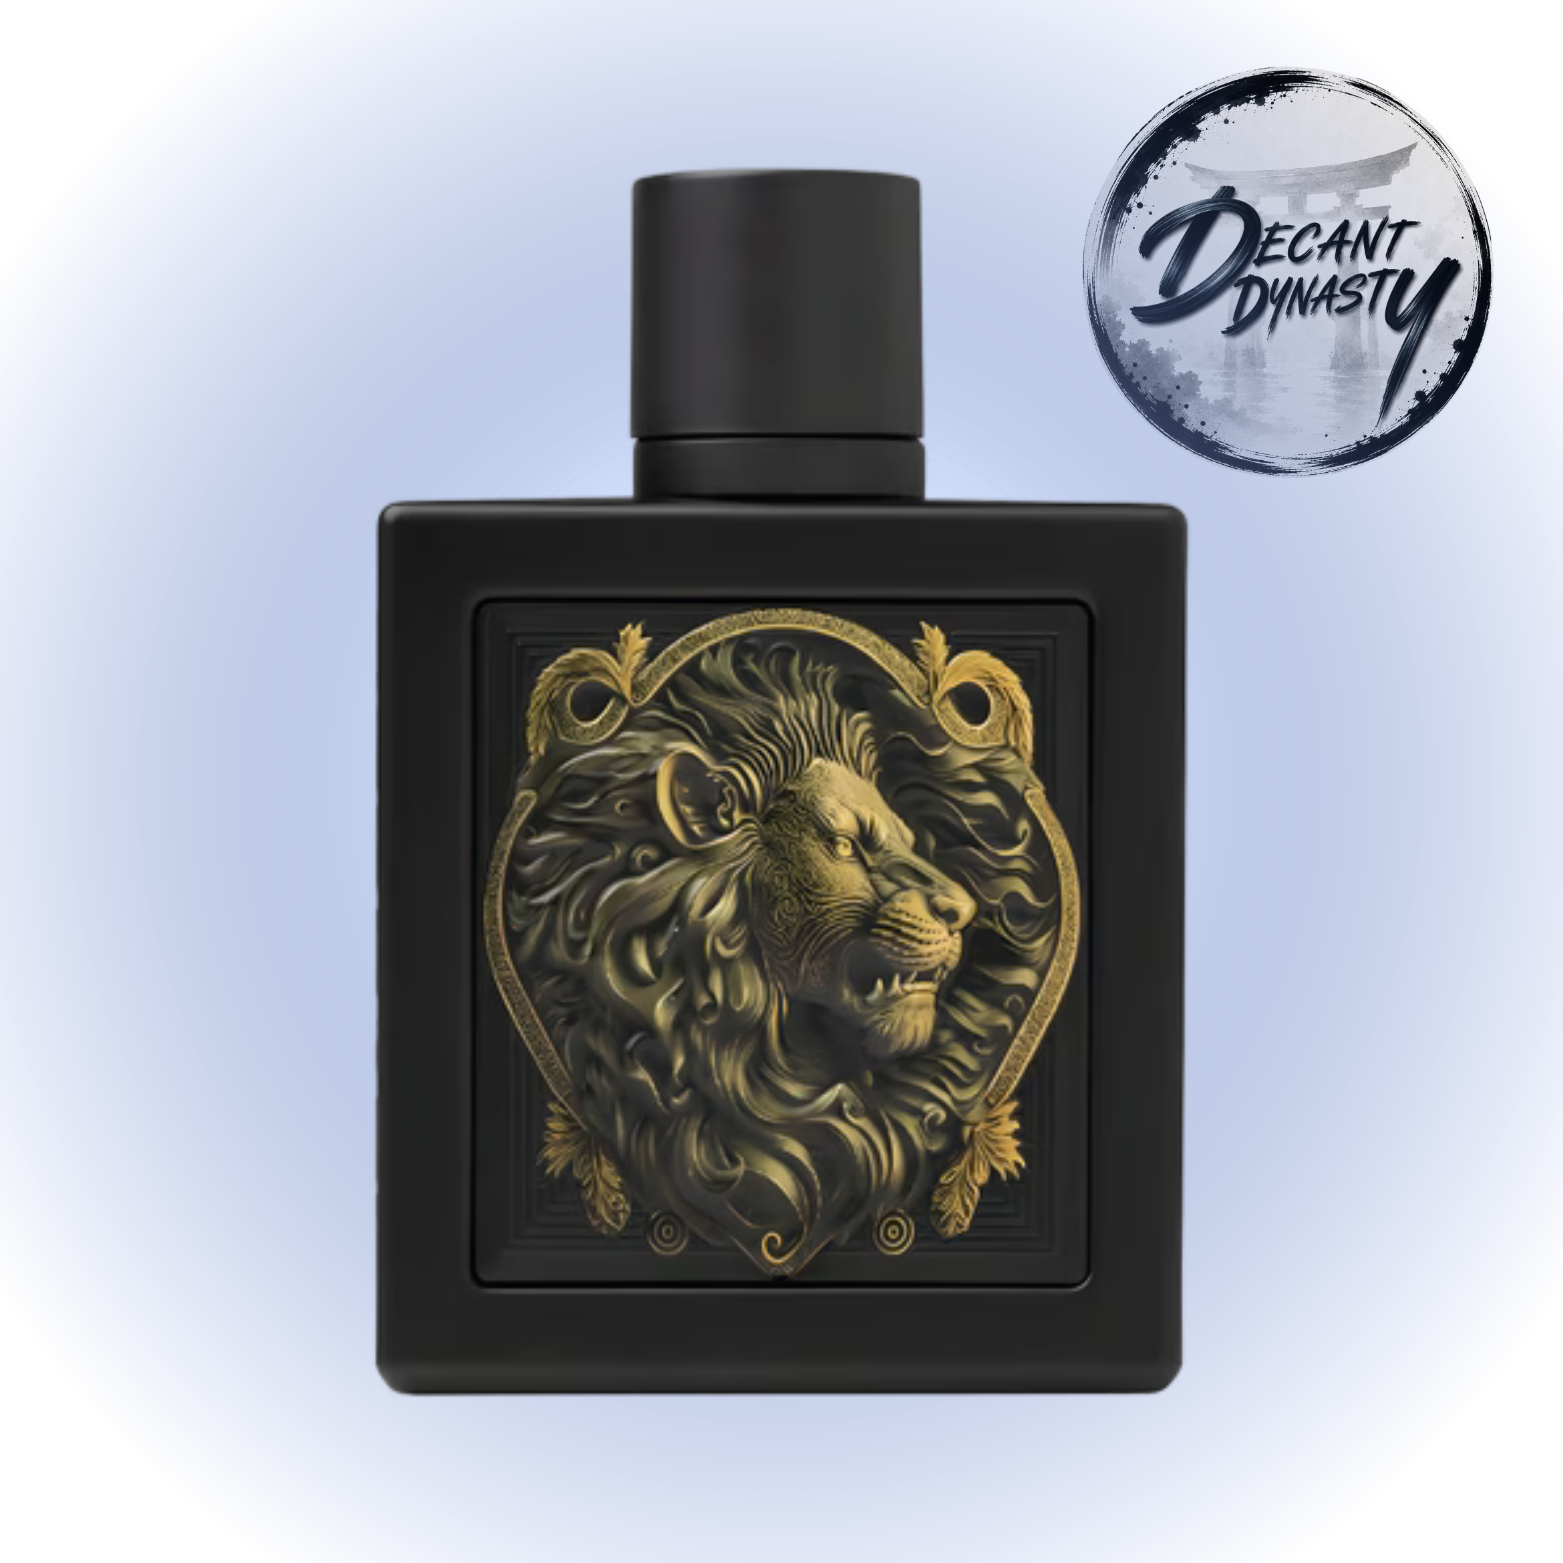
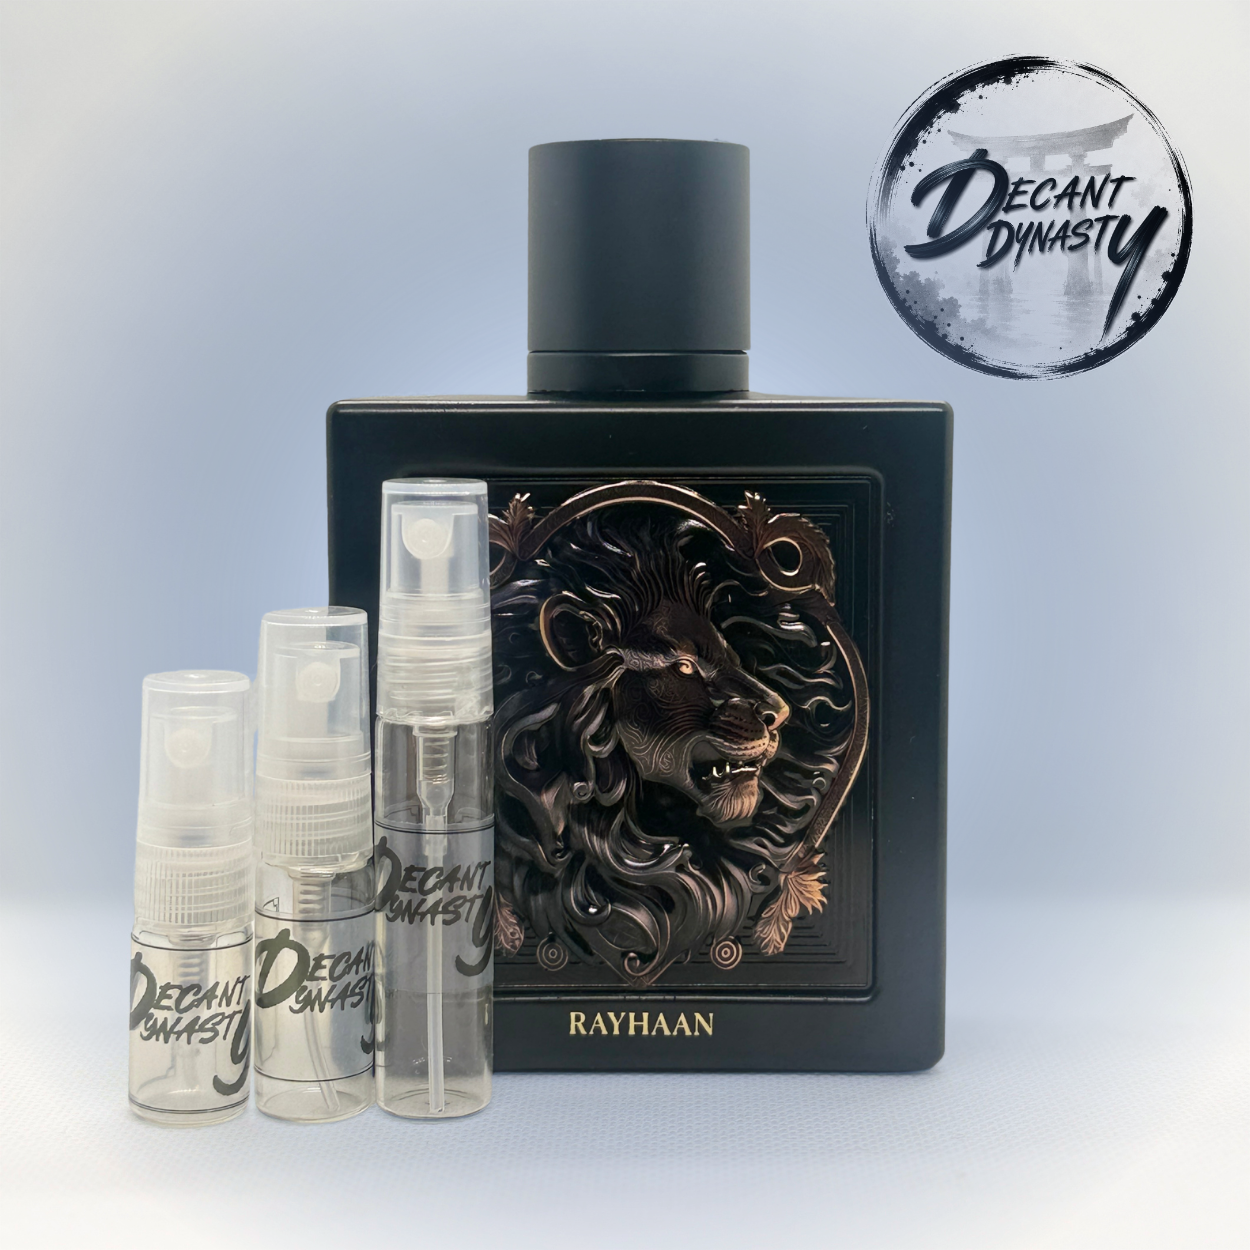
Update fragrance catalog

diff --git a/managed-catalog.js b/managed-catalog.js
@@ -3,7 +3,7 @@
  */
 globalThis.DECANT_MANAGED_CATALOG = {
   "version": 1,
-  "updatedAt": "2026-07-23T13:56:57.566Z",
+  "updatedAt": "2026-07-24T06:59:37.034Z",
   "brands": [
     {
       "id": "afnan",